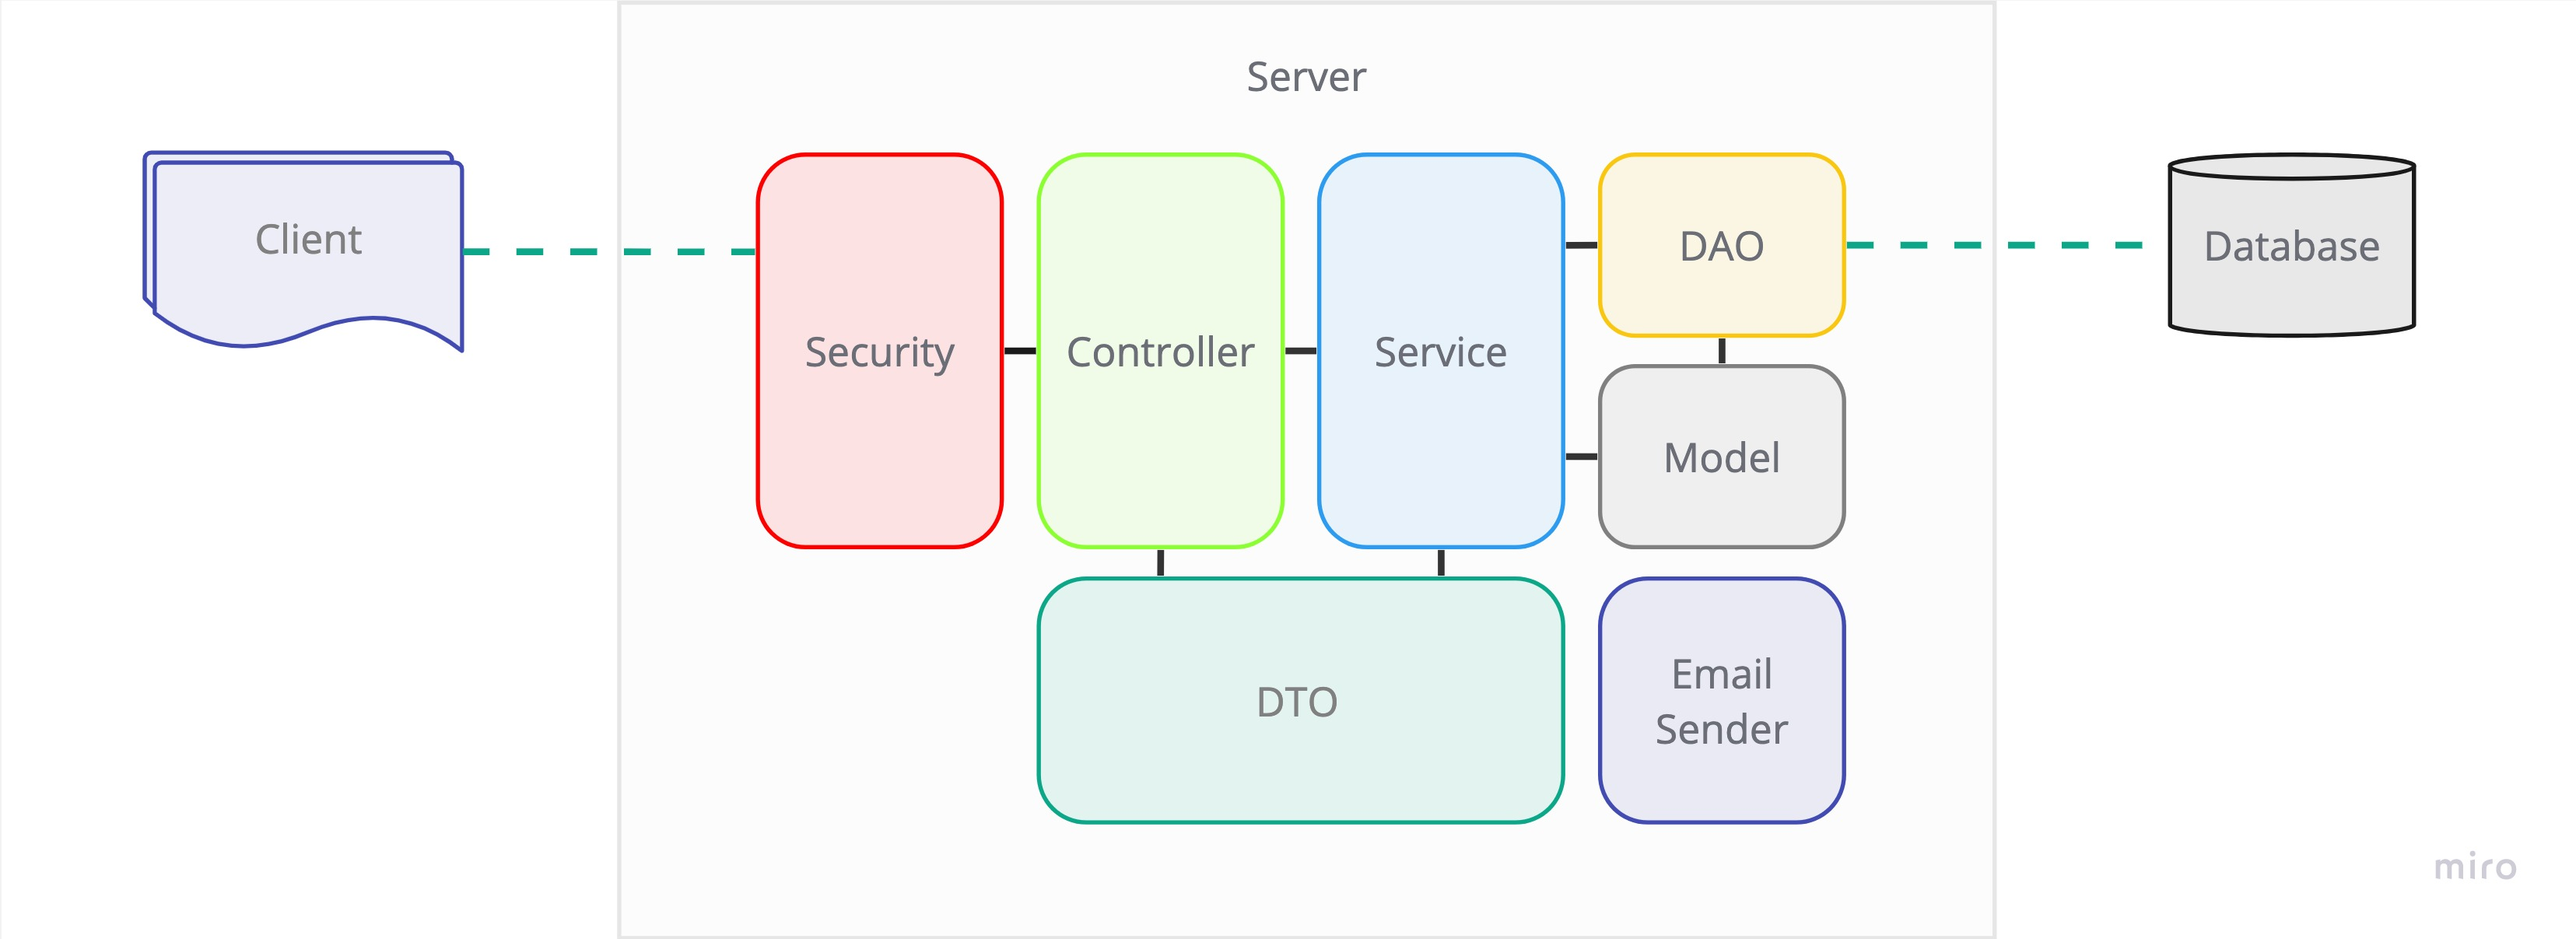
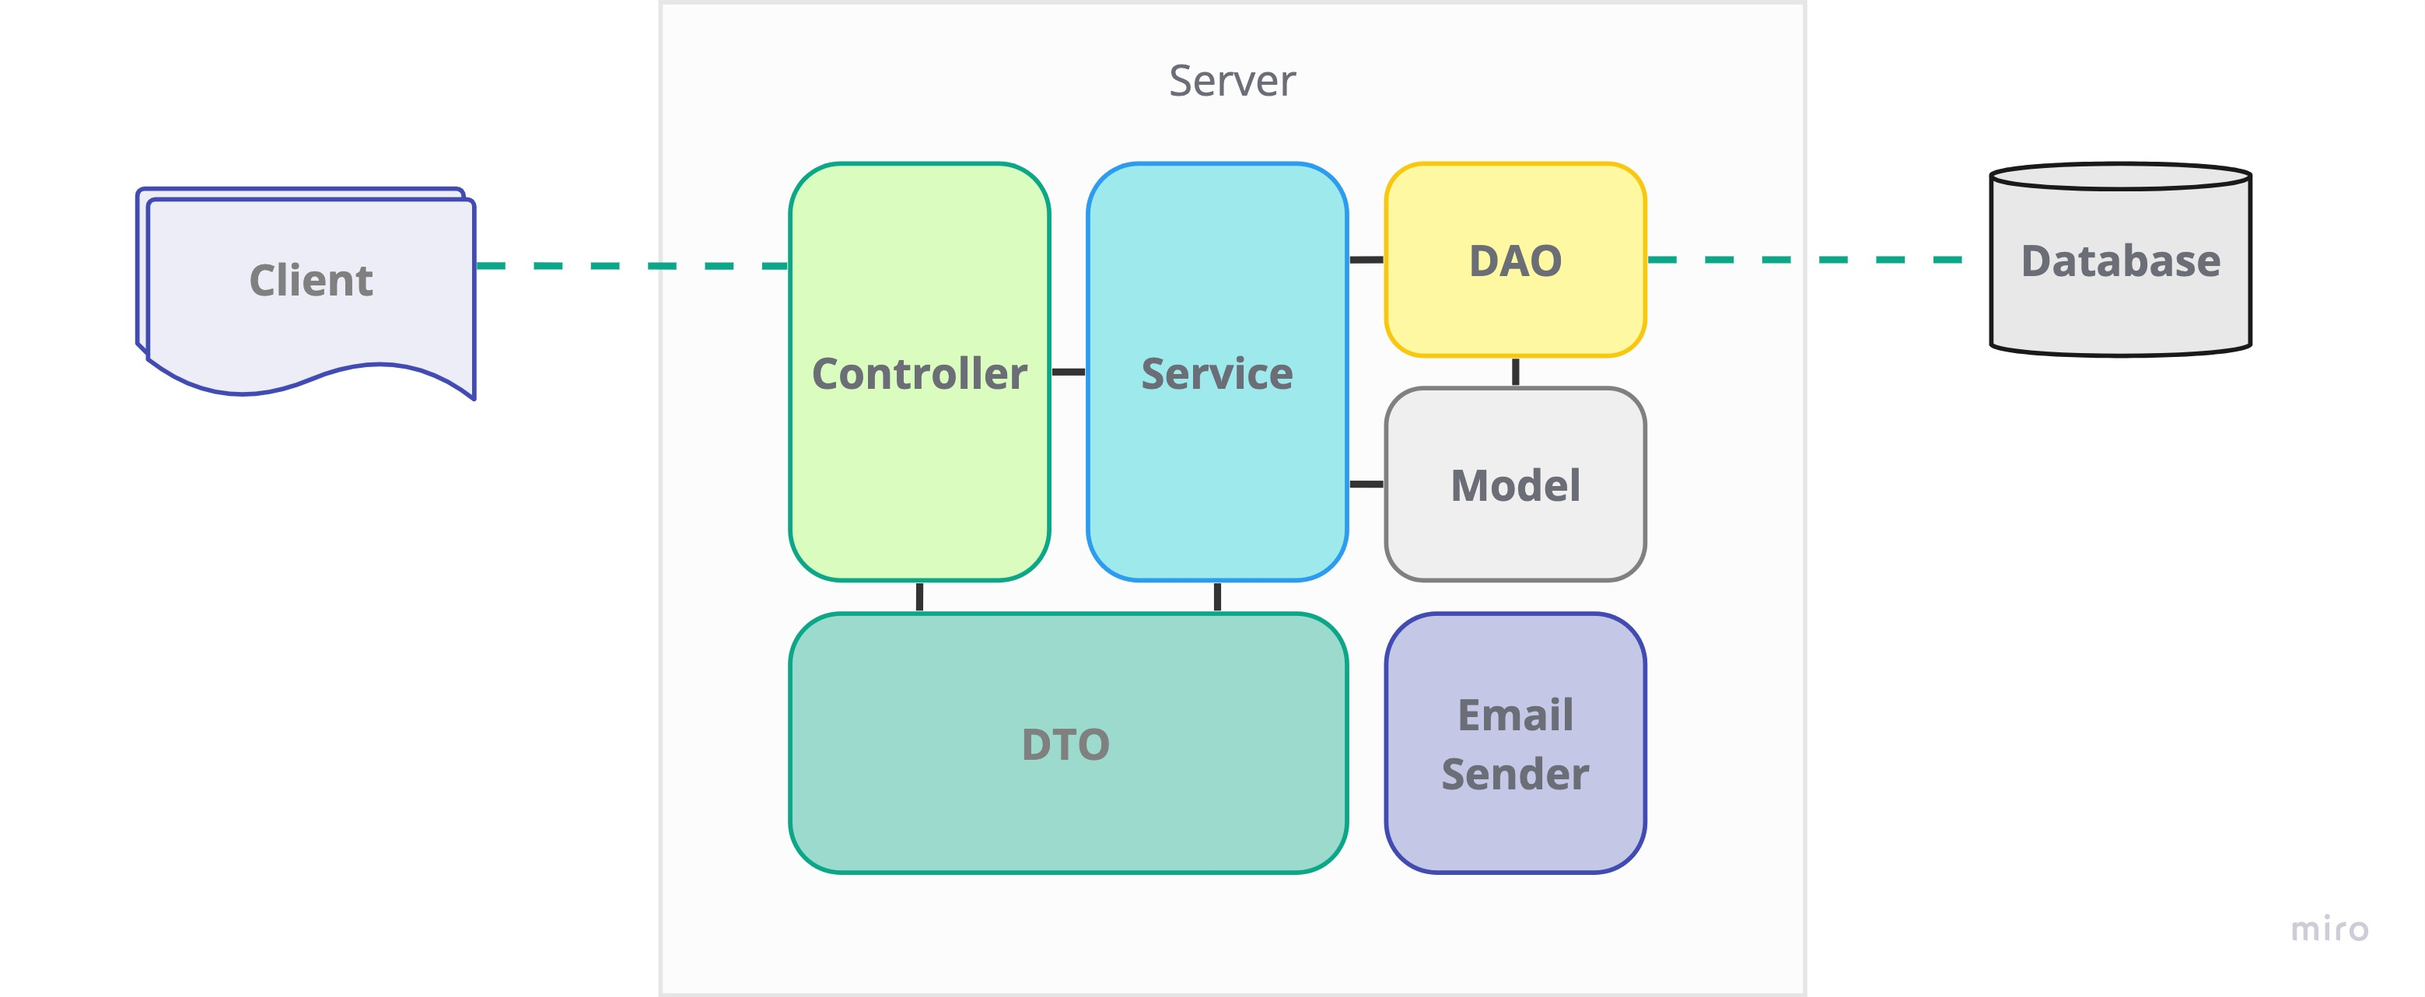
homework 2 fixes

diff --git a/controller/src/main/java/ru/digdes/school/controller/EmployeeController.java b/controller/src/main/java/ru/digdes/school/controller/EmployeeController.java
@@ -2,14 +2,12 @@ package ru.digdes.school.controller;
 
 import ru.digdes.school.dto.EmployeeDto;
 import ru.digdes.school.model.Employee;
-import ru.digdes.school.security.SecurityConfig;
 import ru.digdes.school.service.CommonService;
 import ru.digdes.school.service.EmployeeService;
 
 import java.util.logging.Logger;
 
 public class EmployeeController {
-    SecurityConfig securityConfig = new SecurityConfig();
     Logger logger = Logger.getLogger(EmployeeController.class.getName());
 
     public EmployeeDto getOne(Long id) {
